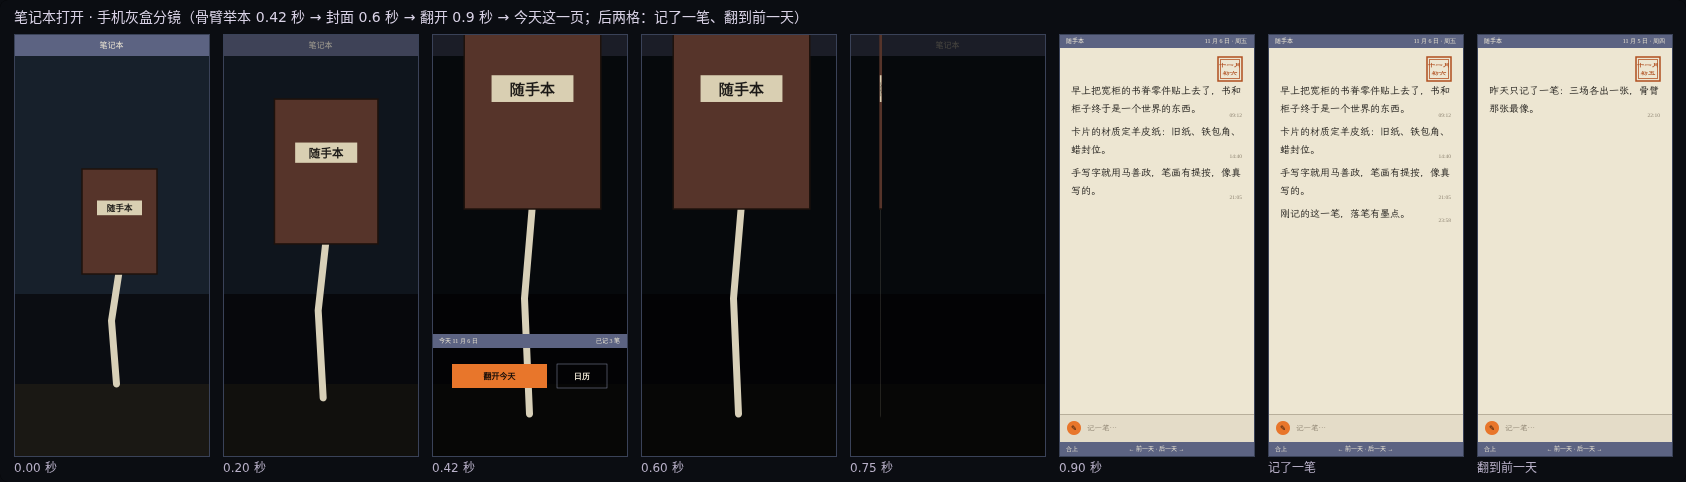
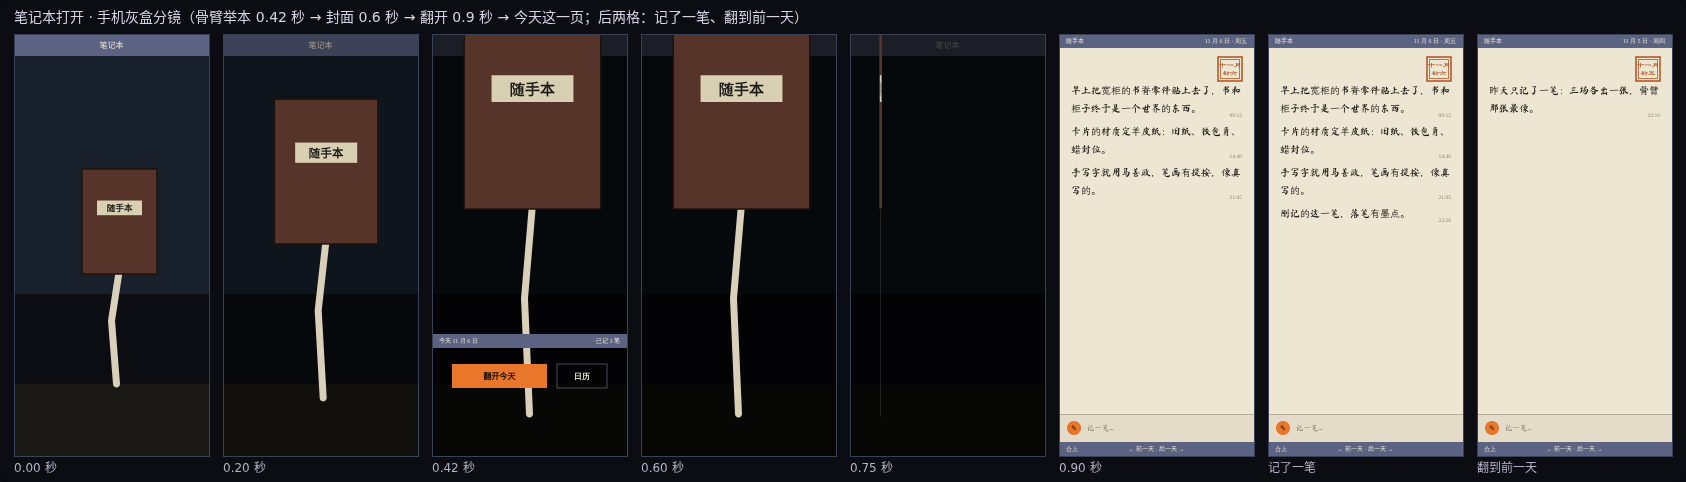
笔记本灰盒：按正文预载马善政字体子集，分镜图重出

diff --git a/docs/ui-notes-proto.html b/docs/ui-notes-proto.html
@@ -139,7 +139,8 @@ c.addEventListener('click', e => {
   if (y > H - 84 && y < H - 28) { st.notes = st.notes.concat([['23:58', '刚记的这一笔，落笔有墨点。']]); st.ink = performance.now(); return; }
   if (x < W / 4) st.day = Math.min(2, st.day + 1); else if (x > W * 3 / 4) st.day = Math.max(0, st.day - 1); else st.chrome = !st.chrome;
 });
-document.fonts ? document.fonts.load('20px "Ma Shan Zheng"').then(go, go) : go();
+const SAMPLE = '早上把宽柜的书脊零件贴上去了，书和柜子终于是一个世界的东西。卡片的材质定羊皮纸：旧纸、铁包角、蜡封位。手写字就用马善政，笔画有提按，像真写的。昨天只记了一笔：三场各出一张，骨臂那张最像。书从架上点开的流程定了，手机单页。封面八本够用。纸纹去暗角。桌面才对开。刚记的这一笔，落笔有墨点。记一笔…';
+document.fonts ? document.fonts.load('20px "Ma Shan Zheng"', SAMPLE).then(() => document.fonts.ready).then(go, go) : go();
 })();
 </script>
 </body>
